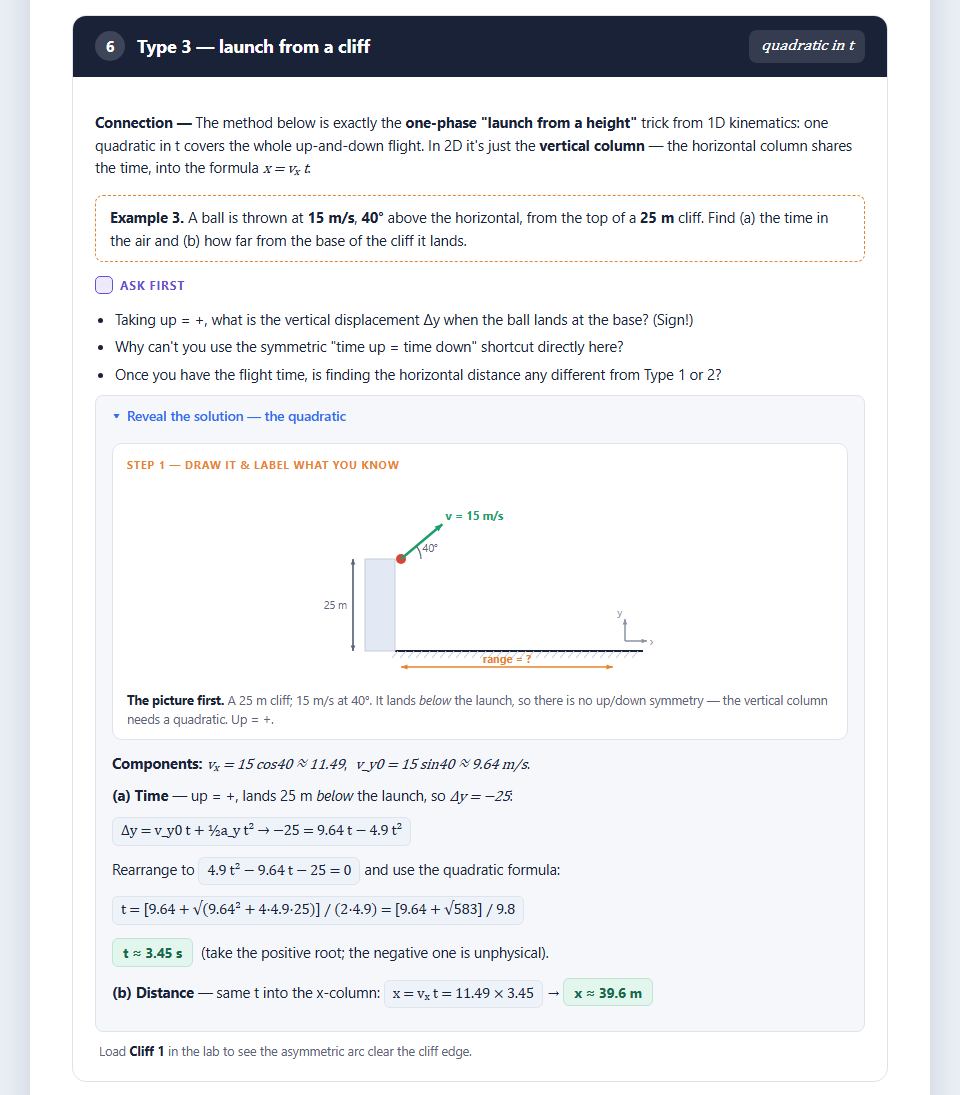
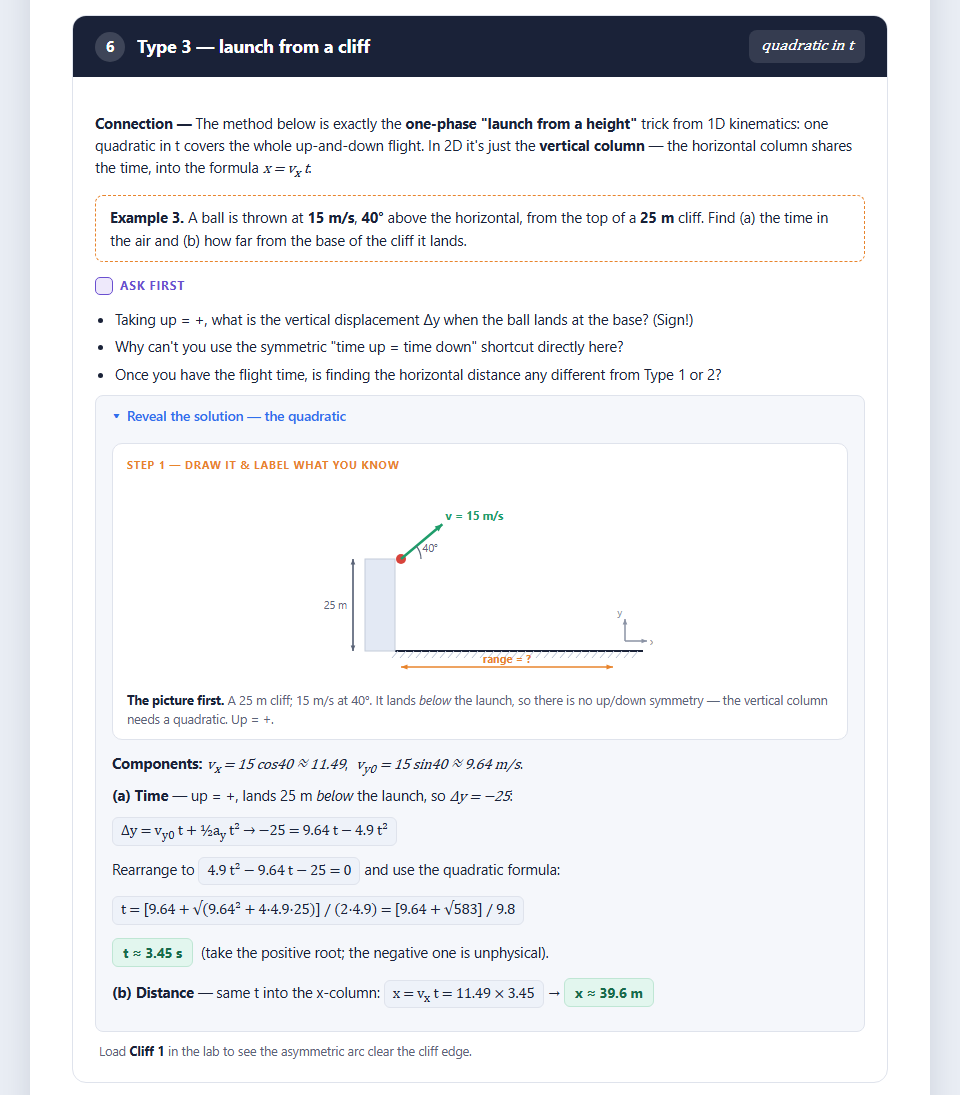
Fix subscript notation in the example lesson

diff --git a/examples/projectile-motion-lesson.html b/examples/projectile-motion-lesson.html
@@ -12,6 +12,7 @@
     --purple:#6a4fd0;--purple-soft:#eee9fb;
   }
   *{box-sizing:border-box;}
+  sub{line-height:0;}
   body{font-family:"Segoe UI",system-ui,-apple-system,Roboto,Arial,sans-serif;color:var(--ink);background:#e9edf4;margin:0;line-height:1.55;}
   .page{max-width:900px;margin:24px auto;background:var(--bg);padding:38px 42px 48px;box-shadow:0 6px 30px rgba(20,30,60,.12);border-radius:12px;}
   header.top{border-bottom:3px solid var(--ink);padding-bottom:16px;margin-bottom:8px;}
@@ -82,6 +83,7 @@
   .readout{display:flex;flex-wrap:wrap;gap:10px;padding:12px 16px;border-top:1px solid var(--line);background:var(--soft);}
   .stat{background:#fff;border:1px solid var(--line);border-radius:8px;padding:8px 12px;min-width:104px;}
   .stat .t{font-size:10.5px;text-transform:uppercase;letter-spacing:.6px;color:var(--muted);}
+  .stat .t .mono{text-transform:none;letter-spacing:0;}
   .stat .n{font-size:16px;font-weight:700;font-variant-numeric:tabular-nums;}
   .stat.x .n{color:var(--blue);} .stat.y .n{color:var(--green);} .stat.tt .n{color:var(--orange);}
   .cap{font-size:12.5px;color:var(--muted);padding:2px 4px 0;margin-top:8px;}
@@ -110,14 +112,14 @@
   <div class="bigidea">
     <h3>The one idea everything hangs off</h3>
     <b>Horizontal and vertical motion are independent — time is the only thing they share.</b><br>
-    Horizontal: no force, so velocity is constant → <span class="mono">x = vₓ·t</span> &nbsp;(aₓ = 0).<br>
-    Vertical: gravity only, so it accelerates → use the kinematic equations with <span class="mono">a_y = −9.8 m/s²</span>.<br>
+    Horizontal: no force, so velocity is constant → <span class="mono">x = v<sub>x</sub>·t</span> &nbsp;(a<sub>x</sub> = 0).<br>
+    Vertical: gravity only, so it accelerates → use the kinematic equations with <span class="mono">a<sub>y</sub> = −9.8 m/s²</span>.<br>
     You solve the two axes <i>separately</i> and connect them through the shared time <span class="mono">t</span>.
   </div>
 
   <!-- ===================== BEAT 1: INDEPENDENCE ===================== -->
   <section class="beat">
-    <div class="bhd"><span class="num">1</span><h2>Drop vs. shoot — the independence of x and y</h2><span class="eq">aₓ = 0,&nbsp; a_y = −g</span></div>
+    <div class="bhd"><span class="num">1</span><h2>Drop vs. shoot — the independence of x and y</h2><span class="eq">a<sub>x</sub> = 0,&nbsp; a<sub>y</sub> = −g</span></div>
     <div class="bbody">
       <p>Two balls leave a table at the same instant: one is simply <b>dropped</b>, the other is <b>launched horizontally</b>. Which lands first?</p>
       <div class="lbl ask"><span class="ic"></span>Ask first</div>
@@ -145,7 +147,7 @@
 
   <!-- ===================== BEAT 2: FOUNDATIONS ===================== -->
   <section class="beat">
-    <div class="bhd"><span class="num">2</span><h2>Setting up — components &amp; the two-column table</h2><span class="eq">vₓ = v cosθ,&nbsp; v_y = v sinθ</span></div>
+    <div class="bhd"><span class="num">2</span><h2>Setting up — components &amp; the two-column table</h2><span class="eq">v<sub>x</sub> = v cosθ,&nbsp; v<sub>y</sub> = v sinθ</span></div>
     <div class="bbody">
       <p>Before any projectile problem, split the launch velocity into its parts and make two columns — one for x, one for y. <b>Pick "up = +" and write it down before you touch a number.</b> (Sign slips are the single biggest point-loser here.)</p>
       <div class="kineq">
@@ -157,20 +159,20 @@
           <li>v<sup>2</sup> = v<sub>0</sub><sup>2</sup> + 2 a Δx</li>
           <li>Δx = v t − ½ a t<sup>2</sup></li>
         </ol>
-        <div class="kn">You already know these — projectile motion just runs them <b>per axis</b>. On x, a = 0, so everything collapses to <span class="mono">x = vₓ t</span>. On y, a = −9.8, so the full set is in play. Each equation is "missing" one variable — pick the one that skips the quantity you don't have.</div>
+        <div class="kn">You already know these — projectile motion just runs them <b>per axis</b>. On x, a = 0, so everything collapses to <span class="mono">x = v<sub>x</sub> t</span>. On y, a = −9.8, so the full set is in play. Each equation is "missing" one variable — pick the one that skips the quantity you don't have.</div>
       </div>
       <div class="lbl ask"><span class="ic"></span>Ask first</div>
       <ul class="q">
-        <li>For a launch speed <span class="mono">v</span> at angle <span class="mono">θ</span> above the horizontal, what are <span class="mono">vₓ</span> and <span class="mono">v_y</span>?</li>
-        <li>Which of the four kinematic equations apply on the <i>x</i> side, given aₓ = 0?</li>
-        <li>What is <span class="mono">a_y</span>, with sign, if up is positive?</li>
+        <li>For a launch speed <span class="mono">v</span> at angle <span class="mono">θ</span> above the horizontal, what are <span class="mono">v<sub>x</sub></span> and <span class="mono">v<sub>y</sub></span>?</li>
+        <li>Which of the four kinematic equations apply on the <i>x</i> side, given a<sub>x</sub> = 0?</li>
+        <li>What is <span class="mono">a<sub>y</sub></span>, with sign, if up is positive?</li>
       </ul>
       <details><summary>Reveal the setup</summary>
         <div class="rev">
-          <p><b>Components:</b> <span class="eqn">vₓ = v cosθ</span> &nbsp; <span class="eqn">v_y = v sinθ</span>.</p>
-          <p><b>x-column (aₓ = 0):</b> start from equation&nbsp;5, <span class="eqn">Δx = v t − ½ aₓ t²</span>; since <span class="mono">aₓ = 0</span> the <span class="mono">½ aₓ t²</span> term is zero, leaving <span class="eqn">x = vₓ t</span>. Horizontal velocity never changes.</p>
-          <p><b>y-column (a_y = −9.8):</b> the full kit — <span class="eqn">v_y = v_y0 + a_y t</span>, &nbsp;<span class="eqn">y = v_y0 t + ½ a_y t²</span>, &nbsp;<span class="eqn">v_y² = v_y0² + 2 a_y Δy</span>.</p>
-          <p><b>The bridge:</b> solve the y-column for the time <span class="mono">t</span>, then drop that <i>same</i> t into <span class="mono">x = vₓ t</span>.</p>
+          <p><b>Components:</b> <span class="eqn">v<sub>x</sub> = v cosθ</span> &nbsp; <span class="eqn">v<sub>y</sub> = v sinθ</span>.</p>
+          <p><b>x-column (a<sub>x</sub> = 0):</b> start from equation&nbsp;5, <span class="eqn">Δx = v t − ½ a<sub>x</sub> t²</span>; since <span class="mono">a<sub>x</sub> = 0</span> the <span class="mono">½ a<sub>x</sub> t²</span> term is zero, leaving <span class="eqn">x = v<sub>x</sub> t</span>. Horizontal velocity never changes.</p>
+          <p><b>y-column (a<sub>y</sub> = −9.8):</b> the full kit — <span class="eqn">v<sub>y</sub> = v<sub>y0</sub> + a<sub>y</sub> t</span>, &nbsp;<span class="eqn">y = v<sub>y0</sub> t + ½ a<sub>y</sub> t²</span>, &nbsp;<span class="eqn">v<sub>y</sub>² = v<sub>y0</sub>² + 2 a<sub>y</sub> Δy</span>.</p>
+          <p><b>The bridge:</b> solve the y-column for the time <span class="mono">t</span>, then drop that <i>same</i> t into <span class="mono">x = v<sub>x</sub> t</span>.</p>
         </div>
       </details>
     </div>
@@ -183,7 +185,7 @@
       <p>Almost every problem shares similarities to these types of problems — get familiar with these and the patterns transfer to the majority of projectile problems. You'll pick it up as you keep practicing.</p>
       <table class="types">
         <tr><th>Type</th><th>Picture</th><th>Launch velocity</th></tr>
-        <tr><td class="t1"><b>1 · Horizontal launch from a height</b></td><td>ball rolls off a table</td><td>purely horizontal; <span class="mono">v_y0 = 0</span></td></tr>
+        <tr><td class="t1"><b>1 · Horizontal launch from a height</b></td><td>ball rolls off a table</td><td>purely horizontal; <span class="mono">v<sub>y0</sub> = 0</span></td></tr>
         <tr><td class="t2"><b>2 · Angle launch, level ground</b></td><td>kicked soccer ball</td><td>at angle θ; lands at same height</td></tr>
         <tr><td class="t3"><b>3 · Launch from an elevated point</b></td><td>thrown off a cliff</td><td>angle (or horizontal) + extra drop</td></tr>
       </table>
@@ -192,7 +194,7 @@
 
   <!-- ===================== BEAT 4: TYPE 1 ===================== -->
   <section class="beat">
-    <div class="bhd"><span class="num">4</span><h2>Type 1 — horizontal launch from a height</h2><span class="eq">v_y0 = 0</span></div>
+    <div class="bhd"><span class="num">4</span><h2>Type 1 — horizontal launch from a height</h2><span class="eq">v<sub>y0</sub> = 0</span></div>
     <div class="bbody">
       <div class="prob"><b>Example 1.</b> A ball rolls off a <b>1.5 m</b> table at <b>3.0 m/s</b>. Find (a) the time to land, (b) how far from the table it lands, and (c) its velocity (speed and angle) at landing.</div>
       <div class="lbl ask"><span class="ic"></span>Ask first</div>
@@ -206,14 +208,14 @@
           <div class="setup">
             <div class="sh">Step 1 — draw it &amp; label what you know</div>
             <div class="fig"><svg viewBox="0 0 340 180" xmlns="http://www.w3.org/2000/svg" font-family="Segoe UI,Arial,sans-serif" style="width:100%;height:auto;max-width:340px"><line x1="30" y1="150" x2="330" y2="150" stroke="#1a2238" stroke-width="2"/><line x1="33" y1="150" x2="27" y2="157" stroke="#b9c2d4" stroke-width="1"/><line x1="41" y1="150" x2="35" y2="157" stroke="#b9c2d4" stroke-width="1"/><line x1="49" y1="150" x2="43" y2="157" stroke="#b9c2d4" stroke-width="1"/><line x1="57" y1="150" x2="51" y2="157" stroke="#b9c2d4" stroke-width="1"/><line x1="65" y1="150" x2="59" y2="157" stroke="#b9c2d4" stroke-width="1"/><line x1="73" y1="150" x2="67" y2="157" stroke="#b9c2d4" stroke-width="1"/><line x1="81" y1="150" x2="75" y2="157" stroke="#b9c2d4" stroke-width="1"/><line x1="89" y1="150" x2="83" y2="157" stroke="#b9c2d4" stroke-width="1"/><line x1="97" y1="150" x2="91" y2="157" stroke="#b9c2d4" stroke-width="1"/><line x1="105" y1="150" x2="99" y2="157" stroke="#b9c2d4" stroke-width="1"/><line x1="113" y1="150" x2="107" y2="157" stroke="#b9c2d4" stroke-width="1"/><line x1="121" y1="150" x2="115" y2="157" stroke="#b9c2d4" stroke-width="1"/><line x1="129" y1="150" x2="123" y2="157" stroke="#b9c2d4" stroke-width="1"/><line x1="137" y1="150" x2="131" y2="157" stroke="#b9c2d4" stroke-width="1"/><line x1="145" y1="150" x2="139" y2="157" stroke="#b9c2d4" stroke-width="1"/><line x1="153" y1="150" x2="147" y2="157" stroke="#b9c2d4" stroke-width="1"/><line x1="161" y1="150" x2="155" y2="157" stroke="#b9c2d4" stroke-width="1"/><line x1="169" y1="150" x2="163" y2="157" stroke="#b9c2d4" stroke-width="1"/><line x1="177" y1="150" x2="171" y2="157" stroke="#b9c2d4" stroke-width="1"/><line x1="185" y1="150" x2="179" y2="157" stroke="#b9c2d4" stroke-width="1"/><line x1="193" y1="150" x2="187" y2="157" stroke="#b9c2d4" stroke-width="1"/><line x1="201" y1="150" x2="195" y2="157" stroke="#b9c2d4" stroke-width="1"/><line x1="209" y1="150" x2="203" y2="157" stroke="#b9c2d4" stroke-width="1"/><line x1="217" y1="150" x2="211" y2="157" stroke="#b9c2d4" stroke-width="1"/><line x1="225" y1="150" x2="219" y2="157" stroke="#b9c2d4" stroke-width="1"/><line x1="233" y1="150" x2="227" y2="157" stroke="#b9c2d4" stroke-width="1"/><line x1="241" y1="150" x2="235" y2="157" stroke="#b9c2d4" stroke-width="1"/><line x1="249" y1="150" x2="243" y2="157" stroke="#b9c2d4" stroke-width="1"/><line x1="257" y1="150" x2="251" y2="157" stroke="#b9c2d4" stroke-width="1"/><line x1="265" y1="150" x2="259" y2="157" stroke="#b9c2d4" stroke-width="1"/><line x1="273" y1="150" x2="267" y2="157" stroke="#b9c2d4" stroke-width="1"/><line x1="281" y1="150" x2="275" y2="157" stroke="#b9c2d4" stroke-width="1"/><line x1="289" y1="150" x2="283" y2="157" stroke="#b9c2d4" stroke-width="1"/><line x1="297" y1="150" x2="291" y2="157" stroke="#b9c2d4" stroke-width="1"/><line x1="305" y1="150" x2="299" y2="157" stroke="#b9c2d4" stroke-width="1"/><line x1="313" y1="150" x2="307" y2="157" stroke="#b9c2d4" stroke-width="1"/><line x1="321" y1="150" x2="315" y2="157" stroke="#b9c2d4" stroke-width="1"/><line x1="329" y1="150" x2="323" y2="157" stroke="#b9c2d4" stroke-width="1"/><rect x="58" y="66" width="26" height="84" fill="#e3e9f4" stroke="#c4ccd9"/><circle cx="90" cy="66" r="5" fill="#d8443c"/><line x1="90" y1="66" x2="134" y2="66" stroke="#2f6fed" stroke-width="2.5"/><polygon points="134,66 126.6,69.1 126.6,62.9" fill="#2f6fed"/><text x="137" y="62" font-size="11.5" fill="#2f6fed" text-anchor="start" font-weight="700">v = 3.0 m/s</text><line x1="46" y1="66" x2="46" y2="150" stroke="#5b6478" stroke-width="1.2"/><polygon points="46,150 43.7,144.5 48.3,144.5" fill="#5b6478"/><line x1="46" y1="150" x2="46" y2="66" stroke="#5b6478" stroke-width="1.2"/><polygon points="46,66 48.3,71.5 43.7,71.5" fill="#5b6478"/><text x="40" y="112" font-size="10.5" fill="#5b6478" text-anchor="end" font-weight="400">1.5 m</text><line x1="90" y1="166" x2="262" y2="166" stroke="#e8842c" stroke-width="1.5"/><polygon points="90,166 96.5,163.6 96.5,168.4" fill="#e8842c"/><polygon points="262,166 255.5,163.6 255.5,168.4" fill="#e8842c"/><text x="176.0" y="162" font-size="11" fill="#e8842c" text-anchor="middle" font-weight="700">x = ?</text><line x1="312" y1="140" x2="334" y2="140" stroke="#8b93a5" stroke-width="1.5"/><polygon points="334,140 328.5,142.3 328.5,137.7" fill="#8b93a5"/><text x="337" y="144" font-size="10" fill="#8b93a5" text-anchor="start" font-weight="400">x</text><line x1="312" y1="140" x2="312" y2="118" stroke="#8b93a5" stroke-width="1.5"/><polygon points="312,118 314.3,123.5 309.7,123.5" fill="#8b93a5"/><text x="309" y="115" font-size="10" fill="#8b93a5" text-anchor="end" font-weight="400">y</text></svg></div>
-            <div class="sc"><b>The picture first.</b> A 1.5&nbsp;m table; the ball leaves <i>flat</i> at 3.0&nbsp;m/s, so <span class="mono">v_y0 = 0</span>. Up = +: the drop is <span class="mono">Δy = −1.5 m</span>, and <span class="mono">x</span> along the ground is what we want.</div>
+            <div class="sc"><b>The picture first.</b> A 1.5&nbsp;m table; the ball leaves <i>flat</i> at 3.0&nbsp;m/s, so <span class="mono">v<sub>y0</sub> = 0</span>. Up = +: the drop is <span class="mono">Δy = −1.5 m</span>, and <span class="mono">x</span> along the ground is what we want.</div>
           </div>
-          <p><b>(a) Time</b> — use the y-column with <span class="mono">v_y0 = 0</span>, up = +, so the drop is <span class="mono">Δy = −1.5 m</span>:</p>
-          <p><span class="eqn">Δy = ½ a_y t² → −1.5 = ½(−9.8)t² → t = √(2·1.5 / 9.8)</span></p>
+          <p><b>(a) Time</b> — use the y-column with <span class="mono">v<sub>y0</sub> = 0</span>, up = +, so the drop is <span class="mono">Δy = −1.5 m</span>:</p>
+          <p><span class="eqn">Δy = ½ a<sub>y</sub> t² → −1.5 = ½(−9.8)t² → t = √(2·1.5 / 9.8)</span></p>
           <p><span class="final">t ≈ 0.553 s</span></p>
           <p><b>(b) Range</b> — same time into the x-column:</p>
-          <p><span class="eqn">x = vₓ t = 3.0 × 0.553</span> → <span class="final">x ≈ 1.66 m</span></p>
-          <p><b>(c) Landing velocity</b> — recombine the components. <span class="mono">vₓ = 3.0</span> (unchanged); <span class="mono">v_y = a_y t = 9.8 × 0.553 ≈ 5.42 m/s</span> downward:</p>
+          <p><span class="eqn">x = v<sub>x</sub> t = 3.0 × 0.553</span> → <span class="final">x ≈ 1.66 m</span></p>
+          <p><b>(c) Landing velocity</b> — recombine the components. <span class="mono">v<sub>x</sub> = 3.0</span> (unchanged); <span class="mono">v<sub>y</sub> = a<sub>y</sub> t = 9.8 × 0.553 ≈ 5.42 m/s</span> downward:</p>
           <p><span class="eqn">v = √(3.0² + 5.42²) ≈ 6.20 m/s</span>, &nbsp; <span class="eqn">angle = tan⁻¹(5.42 / 3.0) ≈ 61° below horizontal</span></p>
           <p><span class="final">v ≈ 6.2 m/s, 61° below horizontal &nbsp;<b>[Forward 61° Downward]</b></span></p>
         </div>
@@ -240,12 +242,12 @@
             <div class="fig"><svg viewBox="0 0 340 180" xmlns="http://www.w3.org/2000/svg" font-family="Segoe UI,Arial,sans-serif" style="width:100%;height:auto;max-width:340px"><line x1="30" y1="155" x2="330" y2="155" stroke="#1a2238" stroke-width="2"/><line x1="33" y1="155" x2="27" y2="162" stroke="#b9c2d4" stroke-width="1"/><line x1="41" y1="155" x2="35" y2="162" stroke="#b9c2d4" stroke-width="1"/><line x1="49" y1="155" x2="43" y2="162" stroke="#b9c2d4" stroke-width="1"/><line x1="57" y1="155" x2="51" y2="162" stroke="#b9c2d4" stroke-width="1"/><line x1="65" y1="155" x2="59" y2="162" stroke="#b9c2d4" stroke-width="1"/><line x1="73" y1="155" x2="67" y2="162" stroke="#b9c2d4" stroke-width="1"/><line x1="81" y1="155" x2="75" y2="162" stroke="#b9c2d4" stroke-width="1"/><line x1="89" y1="155" x2="83" y2="162" stroke="#b9c2d4" stroke-width="1"/><line x1="97" y1="155" x2="91" y2="162" stroke="#b9c2d4" stroke-width="1"/><line x1="105" y1="155" x2="99" y2="162" stroke="#b9c2d4" stroke-width="1"/><line x1="113" y1="155" x2="107" y2="162" stroke="#b9c2d4" stroke-width="1"/><line x1="121" y1="155" x2="115" y2="162" stroke="#b9c2d4" stroke-width="1"/><line x1="129" y1="155" x2="123" y2="162" stroke="#b9c2d4" stroke-width="1"/><line x1="137" y1="155" x2="131" y2="162" stroke="#b9c2d4" stroke-width="1"/><line x1="145" y1="155" x2="139" y2="162" stroke="#b9c2d4" stroke-width="1"/><line x1="153" y1="155" x2="147" y2="162" stroke="#b9c2d4" stroke-width="1"/><line x1="161" y1="155" x2="155" y2="162" stroke="#b9c2d4" stroke-width="1"/><line x1="169" y1="155" x2="163" y2="162" stroke="#b9c2d4" stroke-width="1"/><line x1="177" y1="155" x2="171" y2="162" stroke="#b9c2d4" stroke-width="1"/><line x1="185" y1="155" x2="179" y2="162" stroke="#b9c2d4" stroke-width="1"/><line x1="193" y1="155" x2="187" y2="162" stroke="#b9c2d4" stroke-width="1"/><line x1="201" y1="155" x2="195" y2="162" stroke="#b9c2d4" stroke-width="1"/><line x1="209" y1="155" x2="203" y2="162" stroke="#b9c2d4" stroke-width="1"/><line x1="217" y1="155" x2="211" y2="162" stroke="#b9c2d4" stroke-width="1"/><line x1="225" y1="155" x2="219" y2="162" stroke="#b9c2d4" stroke-width="1"/><line x1="233" y1="155" x2="227" y2="162" stroke="#b9c2d4" stroke-width="1"/><line x1="241" y1="155" x2="235" y2="162" stroke="#b9c2d4" stroke-width="1"/><line x1="249" y1="155" x2="243" y2="162" stroke="#b9c2d4" stroke-width="1"/><line x1="257" y1="155" x2="251" y2="162" stroke="#b9c2d4" stroke-width="1"/><line x1="265" y1="155" x2="259" y2="162" stroke="#b9c2d4" stroke-width="1"/><line x1="273" y1="155" x2="267" y2="162" stroke="#b9c2d4" stroke-width="1"/><line x1="281" y1="155" x2="275" y2="162" stroke="#b9c2d4" stroke-width="1"/><line x1="289" y1="155" x2="283" y2="162" stroke="#b9c2d4" stroke-width="1"/><line x1="297" y1="155" x2="291" y2="162" stroke="#b9c2d4" stroke-width="1"/><line x1="305" y1="155" x2="299" y2="162" stroke="#b9c2d4" stroke-width="1"/><line x1="313" y1="155" x2="307" y2="162" stroke="#b9c2d4" stroke-width="1"/><line x1="321" y1="155" x2="315" y2="162" stroke="#b9c2d4" stroke-width="1"/><line x1="329" y1="155" x2="323" y2="162" stroke="#b9c2d4" stroke-width="1"/><circle cx="46" cy="155" r="5" fill="#d8443c"/><line x1="46" y1="155" x2="103.15767664977295" y2="122" stroke="#1f9d6b" stroke-width="2.5"/><polygon points="103.15767664977295,122 98.3,128.4 95.2,123.0" fill="#1f9d6b"/><text x="106.15767664977295" y="118" font-size="11.5" fill="#1f9d6b" text-anchor="start" font-weight="700">v = 20 m/s</text><path d="M 68 155 A 22 22 0 0 0 65.1 144.0" fill="none" stroke="#5b6478" stroke-width="1.2"/><text x="77.87555226753926" y="150.45897151161682" font-size="10.5" fill="#5b6478" text-anchor="middle" font-weight="400">30&#176;</text><line x1="46" y1="171" x2="300" y2="171" stroke="#e8842c" stroke-width="1.5"/><polygon points="46,171 52.5,168.6 52.5,173.4" fill="#e8842c"/><polygon points="300,171 293.5,168.6 293.5,173.4" fill="#e8842c"/><text x="173.0" y="167" font-size="11" fill="#e8842c" text-anchor="middle" font-weight="700">range = ?</text><text x="120" y="92" font-size="11" fill="#e8842c" text-anchor="start" font-weight="700">Δy = ?</text><line x1="312" y1="147" x2="334" y2="147" stroke="#8b93a5" stroke-width="1.5"/><polygon points="334,147 328.5,149.3 328.5,144.7" fill="#8b93a5"/><text x="337" y="151" font-size="10" fill="#8b93a5" text-anchor="start" font-weight="400">x</text><line x1="312" y1="147" x2="312" y2="125" stroke="#8b93a5" stroke-width="1.5"/><polygon points="312,125 314.3,130.5 309.7,130.5" fill="#8b93a5"/><text x="309" y="122" font-size="10" fill="#8b93a5" text-anchor="end" font-weight="400">y</text></svg></div>
             <div class="sc"><b>The picture first.</b> Level ground; 20&nbsp;m/s at 30° (the arc marks the angle). A symmetric arch — up to a peak of height <span class="mono">Δy</span>, then back to the same level a distance <span class="mono">range</span> away. Up = +.</div>
           </div>
-          <p><b>Components:</b> <span class="mono">vₓ = 20 cos30 ≈ 17.32</span>, &nbsp;<span class="mono">v_y0 = 20 sin30 = 10.0 m/s</span>.</p>
-          <p><b>(a) Max height</b> — at the top <span class="mono">v_y = 0</span>, so <span class="eqn">v_y² = v_y0² + 2a_y Δy → 0 = 10² + 2(−9.8)Δy</span>:</p>
+          <p><b>Components:</b> <span class="mono">v<sub>x</sub> = 20 cos30 ≈ 17.32</span>, &nbsp;<span class="mono">v<sub>y0</sub> = 20 sin30 = 10.0 m/s</span>.</p>
+          <p><b>(a) Max height</b> — at the top <span class="mono">v<sub>y</sub> = 0</span>, so <span class="eqn">v<sub>y</sub>² = v<sub>y0</sub>² + 2a<sub>y</sub> Δy → 0 = 10² + 2(−9.8)Δy</span>:</p>
           <p><span class="final">Δy = 100 / 19.6 ≈ 5.10 m</span></p>
-          <p><b>(b) Total time</b> — by symmetry, up-time = down-time, and <span class="mono">v_y = 0</span> at the peak: <span class="eqn">t_up = v_y0/g = 10/9.8 ≈ 1.02 s → T = 2 t_up</span>:</p>
+          <p><b>(b) Total time</b> — by symmetry, up-time = down-time, and <span class="mono">v<sub>y</sub> = 0</span> at the peak: <span class="eqn">t<sub>up</sub> = v<sub>y0</sub>/g = 10/9.8 ≈ 1.02 s → T = 2 t<sub>up</sub></span>:</p>
           <p><span class="final">T ≈ 2.04 s</span></p>
-          <p><b>(c) Range</b> — put the flight time into the x-column: <span class="eqn">R = vₓ T = 17.32 × 2.04</span>:</p>
+          <p><b>(c) Range</b> — put the flight time into the x-column: <span class="eqn">R = v<sub>x</sub> T = 17.32 × 2.04</span>:</p>
           <p><span class="final">R ≈ 35.3 m</span></p>
         </div>
       </details>
@@ -256,7 +258,7 @@
   <section class="beat">
     <div class="bhd"><span class="num">6</span><h2>Type 3 — launch from a cliff</h2><span class="eq">quadratic in t</span></div>
     <div class="bbody">
-      <p><b>Connection —</b> The method below is exactly the <b>one-phase "launch from a height"</b> trick from 1D kinematics: one quadratic in t covers the whole up-and-down flight. In 2D it's just the <b>vertical column</b> — the horizontal column shares the time, into the formula <span class="mono">x = vₓ t</span>.</p>
+      <p><b>Connection —</b> The method below is exactly the <b>one-phase "launch from a height"</b> trick from 1D kinematics: one quadratic in t covers the whole up-and-down flight. In 2D it's just the <b>vertical column</b> — the horizontal column shares the time, into the formula <span class="mono">x = v<sub>x</sub> t</span>.</p>
       <div class="prob"><b>Example 3.</b> A ball is thrown at <b>15 m/s</b>, <b>40°</b> above the horizontal, from the top of a <b>25 m</b> cliff. Find (a) the time in the air and (b) how far from the base of the cliff it lands.</div>
       <div class="lbl ask"><span class="ic"></span>Ask first</div>
       <ul class="q">
@@ -271,13 +273,13 @@
             <div class="fig"><svg viewBox="0 0 346 196" xmlns="http://www.w3.org/2000/svg" font-family="Segoe UI,Arial,sans-serif" style="width:100%;height:auto;max-width:346px"><line x1="88" y1="170" x2="336" y2="170" stroke="#1a2238" stroke-width="2"/><line x1="91" y1="170" x2="85" y2="177" stroke="#b9c2d4" stroke-width="1"/><line x1="99" y1="170" x2="93" y2="177" stroke="#b9c2d4" stroke-width="1"/><line x1="107" y1="170" x2="101" y2="177" stroke="#b9c2d4" stroke-width="1"/><line x1="115" y1="170" x2="109" y2="177" stroke="#b9c2d4" stroke-width="1"/><line x1="123" y1="170" x2="117" y2="177" stroke="#b9c2d4" stroke-width="1"/><line x1="131" y1="170" x2="125" y2="177" stroke="#b9c2d4" stroke-width="1"/><line x1="139" y1="170" x2="133" y2="177" stroke="#b9c2d4" stroke-width="1"/><line x1="147" y1="170" x2="141" y2="177" stroke="#b9c2d4" stroke-width="1"/><line x1="155" y1="170" x2="149" y2="177" stroke="#b9c2d4" stroke-width="1"/><line x1="163" y1="170" x2="157" y2="177" stroke="#b9c2d4" stroke-width="1"/><line x1="171" y1="170" x2="165" y2="177" stroke="#b9c2d4" stroke-width="1"/><line x1="179" y1="170" x2="173" y2="177" stroke="#b9c2d4" stroke-width="1"/><line x1="187" y1="170" x2="181" y2="177" stroke="#b9c2d4" stroke-width="1"/><line x1="195" y1="170" x2="189" y2="177" stroke="#b9c2d4" stroke-width="1"/><line x1="203" y1="170" x2="197" y2="177" stroke="#b9c2d4" stroke-width="1"/><line x1="211" y1="170" x2="205" y2="177" stroke="#b9c2d4" stroke-width="1"/><line x1="219" y1="170" x2="213" y2="177" stroke="#b9c2d4" stroke-width="1"/><line x1="227" y1="170" x2="221" y2="177" stroke="#b9c2d4" stroke-width="1"/><line x1="235" y1="170" x2="229" y2="177" stroke="#b9c2d4" stroke-width="1"/><line x1="243" y1="170" x2="237" y2="177" stroke="#b9c2d4" stroke-width="1"/><line x1="251" y1="170" x2="245" y2="177" stroke="#b9c2d4" stroke-width="1"/><line x1="259" y1="170" x2="253" y2="177" stroke="#b9c2d4" stroke-width="1"/><line x1="267" y1="170" x2="261" y2="177" stroke="#b9c2d4" stroke-width="1"/><line x1="275" y1="170" x2="269" y2="177" stroke="#b9c2d4" stroke-width="1"/><line x1="283" y1="170" x2="277" y2="177" stroke="#b9c2d4" stroke-width="1"/><line x1="291" y1="170" x2="285" y2="177" stroke="#b9c2d4" stroke-width="1"/><line x1="299" y1="170" x2="293" y2="177" stroke="#b9c2d4" stroke-width="1"/><line x1="307" y1="170" x2="301" y2="177" stroke="#b9c2d4" stroke-width="1"/><line x1="315" y1="170" x2="309" y2="177" stroke="#b9c2d4" stroke-width="1"/><line x1="323" y1="170" x2="317" y2="177" stroke="#b9c2d4" stroke-width="1"/><line x1="331" y1="170" x2="325" y2="177" stroke="#b9c2d4" stroke-width="1"/><rect x="58" y="78" width="30" height="92" fill="#e3e9f4" stroke="#c4ccd9"/><circle cx="94" cy="78" r="5" fill="#d8443c"/><line x1="94" y1="78" x2="135.3663999284248" y2="43.28946907692688" stroke="#1f9d6b" stroke-width="2.5"/><polygon points="135.3663999284248,43.28946907692688 131.7,50.4 127.7,45.6" fill="#1f9d6b"/><text x="138.3663999284248" y="39.28946907692688" font-size="11.5" fill="#1f9d6b" text-anchor="start" font-weight="700">v = 15 m/s</text><path d="M 114 78 A 20 20 0 0 0 109.3 65.1" fill="none" stroke="#5b6478" stroke-width="1.2"/><text x="123.13047124436316" y="71.39737555690427" font-size="10.5" fill="#5b6478" text-anchor="middle" font-weight="400">40&#176;</text><line x1="46" y1="78" x2="46" y2="170" stroke="#5b6478" stroke-width="1.2"/><polygon points="46,170 43.7,164.5 48.3,164.5" fill="#5b6478"/><line x1="46" y1="170" x2="46" y2="78" stroke="#5b6478" stroke-width="1.2"/><polygon points="46,78 48.3,83.5 43.7,83.5" fill="#5b6478"/><text x="40" y="128" font-size="10.5" fill="#5b6478" text-anchor="end" font-weight="400">25 m</text><line x1="94" y1="186" x2="306" y2="186" stroke="#e8842c" stroke-width="1.5"/><polygon points="94,186 100.5,183.6 100.5,188.4" fill="#e8842c"/><polygon points="306,186 299.5,183.6 299.5,188.4" fill="#e8842c"/><text x="200.0" y="182" font-size="11" fill="#e8842c" text-anchor="middle" font-weight="700">range = ?</text><line x1="318" y1="160" x2="340" y2="160" stroke="#8b93a5" stroke-width="1.5"/><polygon points="340,160 334.5,162.3 334.5,157.7" fill="#8b93a5"/><text x="343" y="164" font-size="10" fill="#8b93a5" text-anchor="start" font-weight="400">x</text><line x1="318" y1="160" x2="318" y2="138" stroke="#8b93a5" stroke-width="1.5"/><polygon points="318,138 320.3,143.5 315.7,143.5" fill="#8b93a5"/><text x="315" y="135" font-size="10" fill="#8b93a5" text-anchor="end" font-weight="400">y</text></svg></div>
             <div class="sc"><b>The picture first.</b> A 25&nbsp;m cliff; 15&nbsp;m/s at 40°. It lands <i>below</i> the launch, so there is no up/down symmetry — the vertical column needs a quadratic. Up = +.</div>
           </div>
-          <p><b>Components:</b> <span class="mono">vₓ = 15 cos40 ≈ 11.49</span>, &nbsp;<span class="mono">v_y0 = 15 sin40 ≈ 9.64 m/s</span>.</p>
+          <p><b>Components:</b> <span class="mono">v<sub>x</sub> = 15 cos40 ≈ 11.49</span>, &nbsp;<span class="mono">v<sub>y0</sub> = 15 sin40 ≈ 9.64 m/s</span>.</p>
           <p><b>(a) Time</b> — up = +, lands 25 m <i>below</i> the launch, so <span class="mono">Δy = −25</span>:</p>
-          <p><span class="eqn">Δy = v_y0 t + ½a_y t² → −25 = 9.64 t − 4.9 t²</span></p>
+          <p><span class="eqn">Δy = v<sub>y0</sub> t + ½a<sub>y</sub> t² → −25 = 9.64 t − 4.9 t²</span></p>
           <p>Rearrange to <span class="eqn">4.9 t² − 9.64 t − 25 = 0</span> and use the quadratic formula:</p>
           <p><span class="eqn">t = [9.64 + √(9.64² + 4·4.9·25)] / (2·4.9) = [9.64 + √583] / 9.8</span></p>
           <p><span class="final">t ≈ 3.45 s</span> &nbsp;(take the positive root; the negative one is unphysical).</p>
-          <p><b>(b) Distance</b> — same t into the x-column: <span class="eqn">x = vₓ t = 11.49 × 3.45</span> → <span class="final">x ≈ 39.6 m</span></p>
+          <p><b>(b) Distance</b> — same t into the x-column: <span class="eqn">x = v<sub>x</sub> t = 11.49 × 3.45</span> → <span class="final">x ≈ 39.6 m</span></p>
         </div>
       </details>
       <div class="cap">Load <b>Cliff 1</b> in the lab to see the asymmetric arc clear the cliff edge.</div>
@@ -307,8 +309,8 @@
         </div>
         <div class="readout">
           <div class="stat tt"><div class="t">Time</div><div class="n"><span id="oT">0.00</span> s</div></div>
-          <div class="stat x"><div class="t">vₓ (constant)</div><div class="n"><span id="oVx">11.5</span></div></div>
-          <div class="stat y"><div class="t">v_y (now)</div><div class="n"><span id="oVy">9.6</span></div></div>
+          <div class="stat x"><div class="t"><span class="mono">v<sub>x</sub></span> (constant)</div><div class="n"><span id="oVx">11.5</span></div></div>
+          <div class="stat y"><div class="t"><span class="mono">v<sub>y</sub></span> (now)</div><div class="n"><span id="oVy">9.6</span></div></div>
           <div class="stat"><div class="t">Height</div><div class="n"><span id="oH">25.0</span> m</div></div>
           <div class="stat tt"><div class="t">Flight time</div><div class="n"><span id="oFlight">3.45</span> s</div></div>
           <div class="stat x"><div class="t">Range</div><div class="n"><span id="oRange">39.6</span> m</div></div>
@@ -326,9 +328,9 @@
       <tr><th>The wrong idea</th><th>The fix</th></tr>
       <tr><td>"Horizontal and vertical motion affect each other."</td><td>They're independent — only time is shared.</td></tr>
       <tr><td>"A projectile flies straight until it runs out of push, then drops."</td><td>Gravity acts the whole time; there's never a horizontal force.</td></tr>
-      <tr><td>"At the top of the arc the velocity is zero."</td><td>Only <i>v_y</i> = 0 there; vₓ keeps going unchanged.</td></tr>
+      <tr><td>"At the top of the arc the velocity is zero."</td><td>Only <i>v<sub>y</sub></i> = 0 there; v<sub>x</sub> keeps going unchanged.</td></tr>
       <tr><td>"Heavier objects fall faster."</td><td>The trajectory doesn't depend on mass.</td></tr>
-      <tr><td>"The level-ground time shortcut works even off a cliff."</td><td>No — a height difference breaks the up/down symmetry. Solve the y-column with a quadratic, then x = vₓ t.</td></tr>
+      <tr><td>"The level-ground time shortcut works even off a cliff."</td><td>No — a height difference breaks the up/down symmetry. Solve the y-column with a quadratic, then x = v<sub>x</sub> t.</td></tr>
     </table>
   </div>
 
